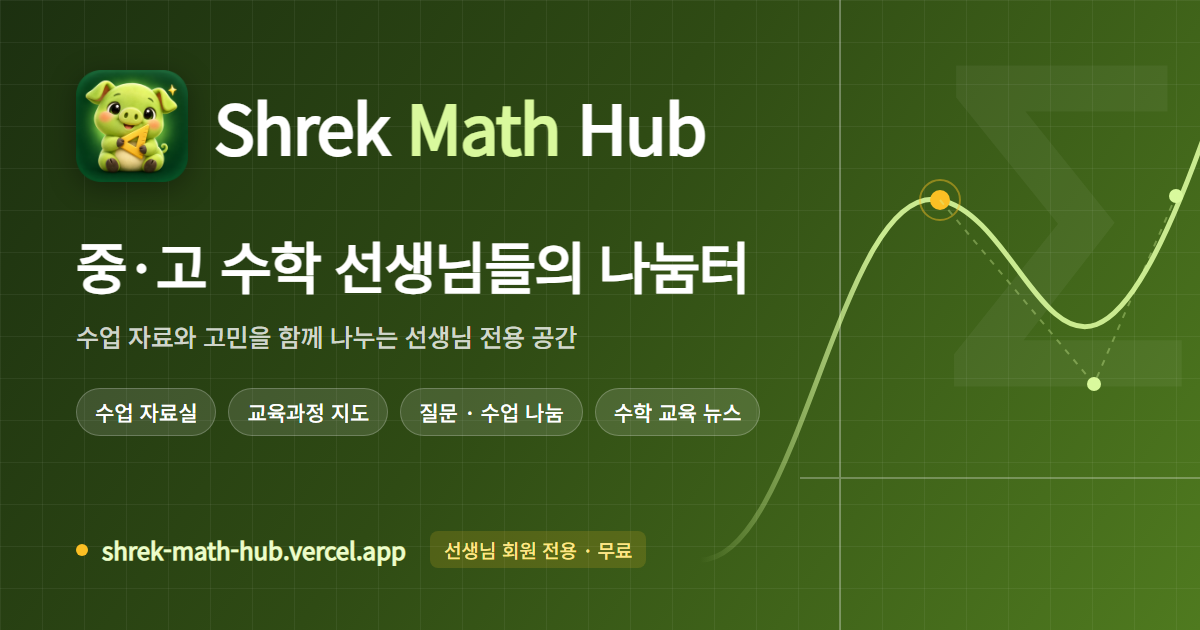
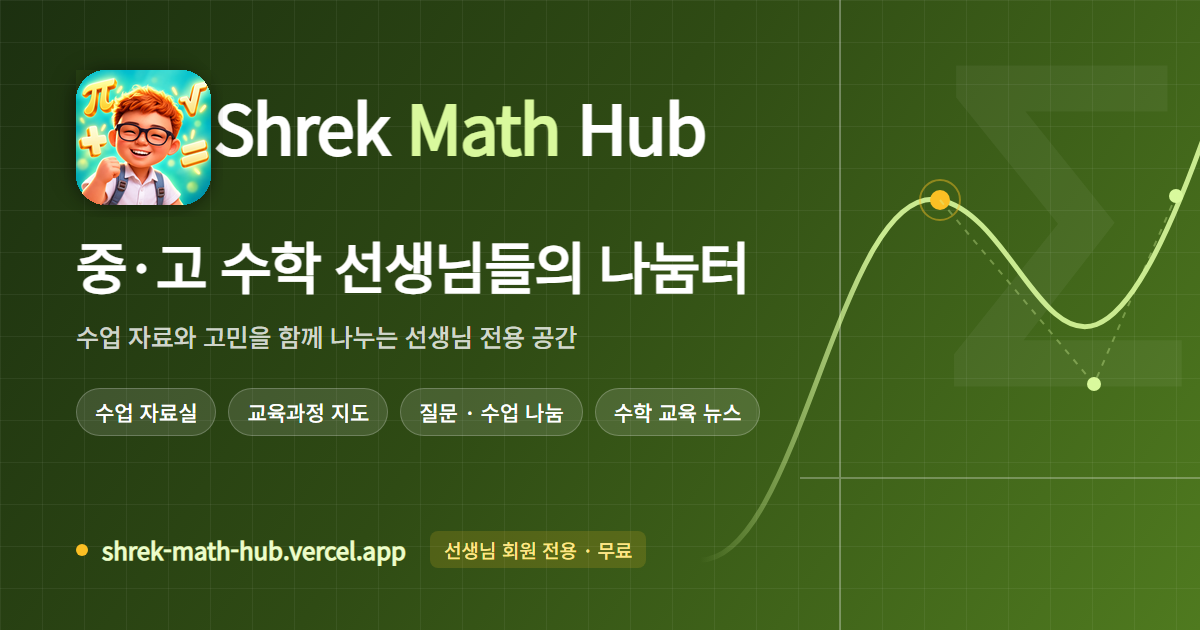
feat: 앱 아이콘을 선생님이 주신 주황 머리 학생 그림으로 바꿈
- 브라우저 탭(icon.png)·아이폰(apple-icon.png)·안드로이드(public/icons, maskable 포함)·머리글 로고 모두 같은 그림
- 링크 미리보기 그림과 홍보 안내 이미지의 아이콘 자리도 새 그림으로
- 홍보/앱-아이콘-512.png·원본 webp 갱신

Changed region(s): [[0.0617, 0.0905, 0.185, 0.3317]]

diff --git a/src/components/ui.tsx b/src/components/ui.tsx
@@ -55,7 +55,7 @@ export function Logo({ className = '' }: { className?: string }) {
   return (
     <Link href="/" className={`flex items-center gap-2 font-bold text-slate-900 ${className}`}>
       {/* eslint-disable-next-line @next/next/no-img-element */}
-      <img src="/icons/icon-192.png" alt="" width={32} height={32} className="h-7 w-7 sm:h-8 sm:w-8" />
+      <img src="/icons/icon-192.png" alt="" width={32} height={32} className="h-7 w-7 rounded-md sm:h-8 sm:w-8" />
       <span className="whitespace-nowrap text-base tracking-tight sm:text-lg">
         Shrek <span className="text-brand-600">Math</span> Hub
       </span>
